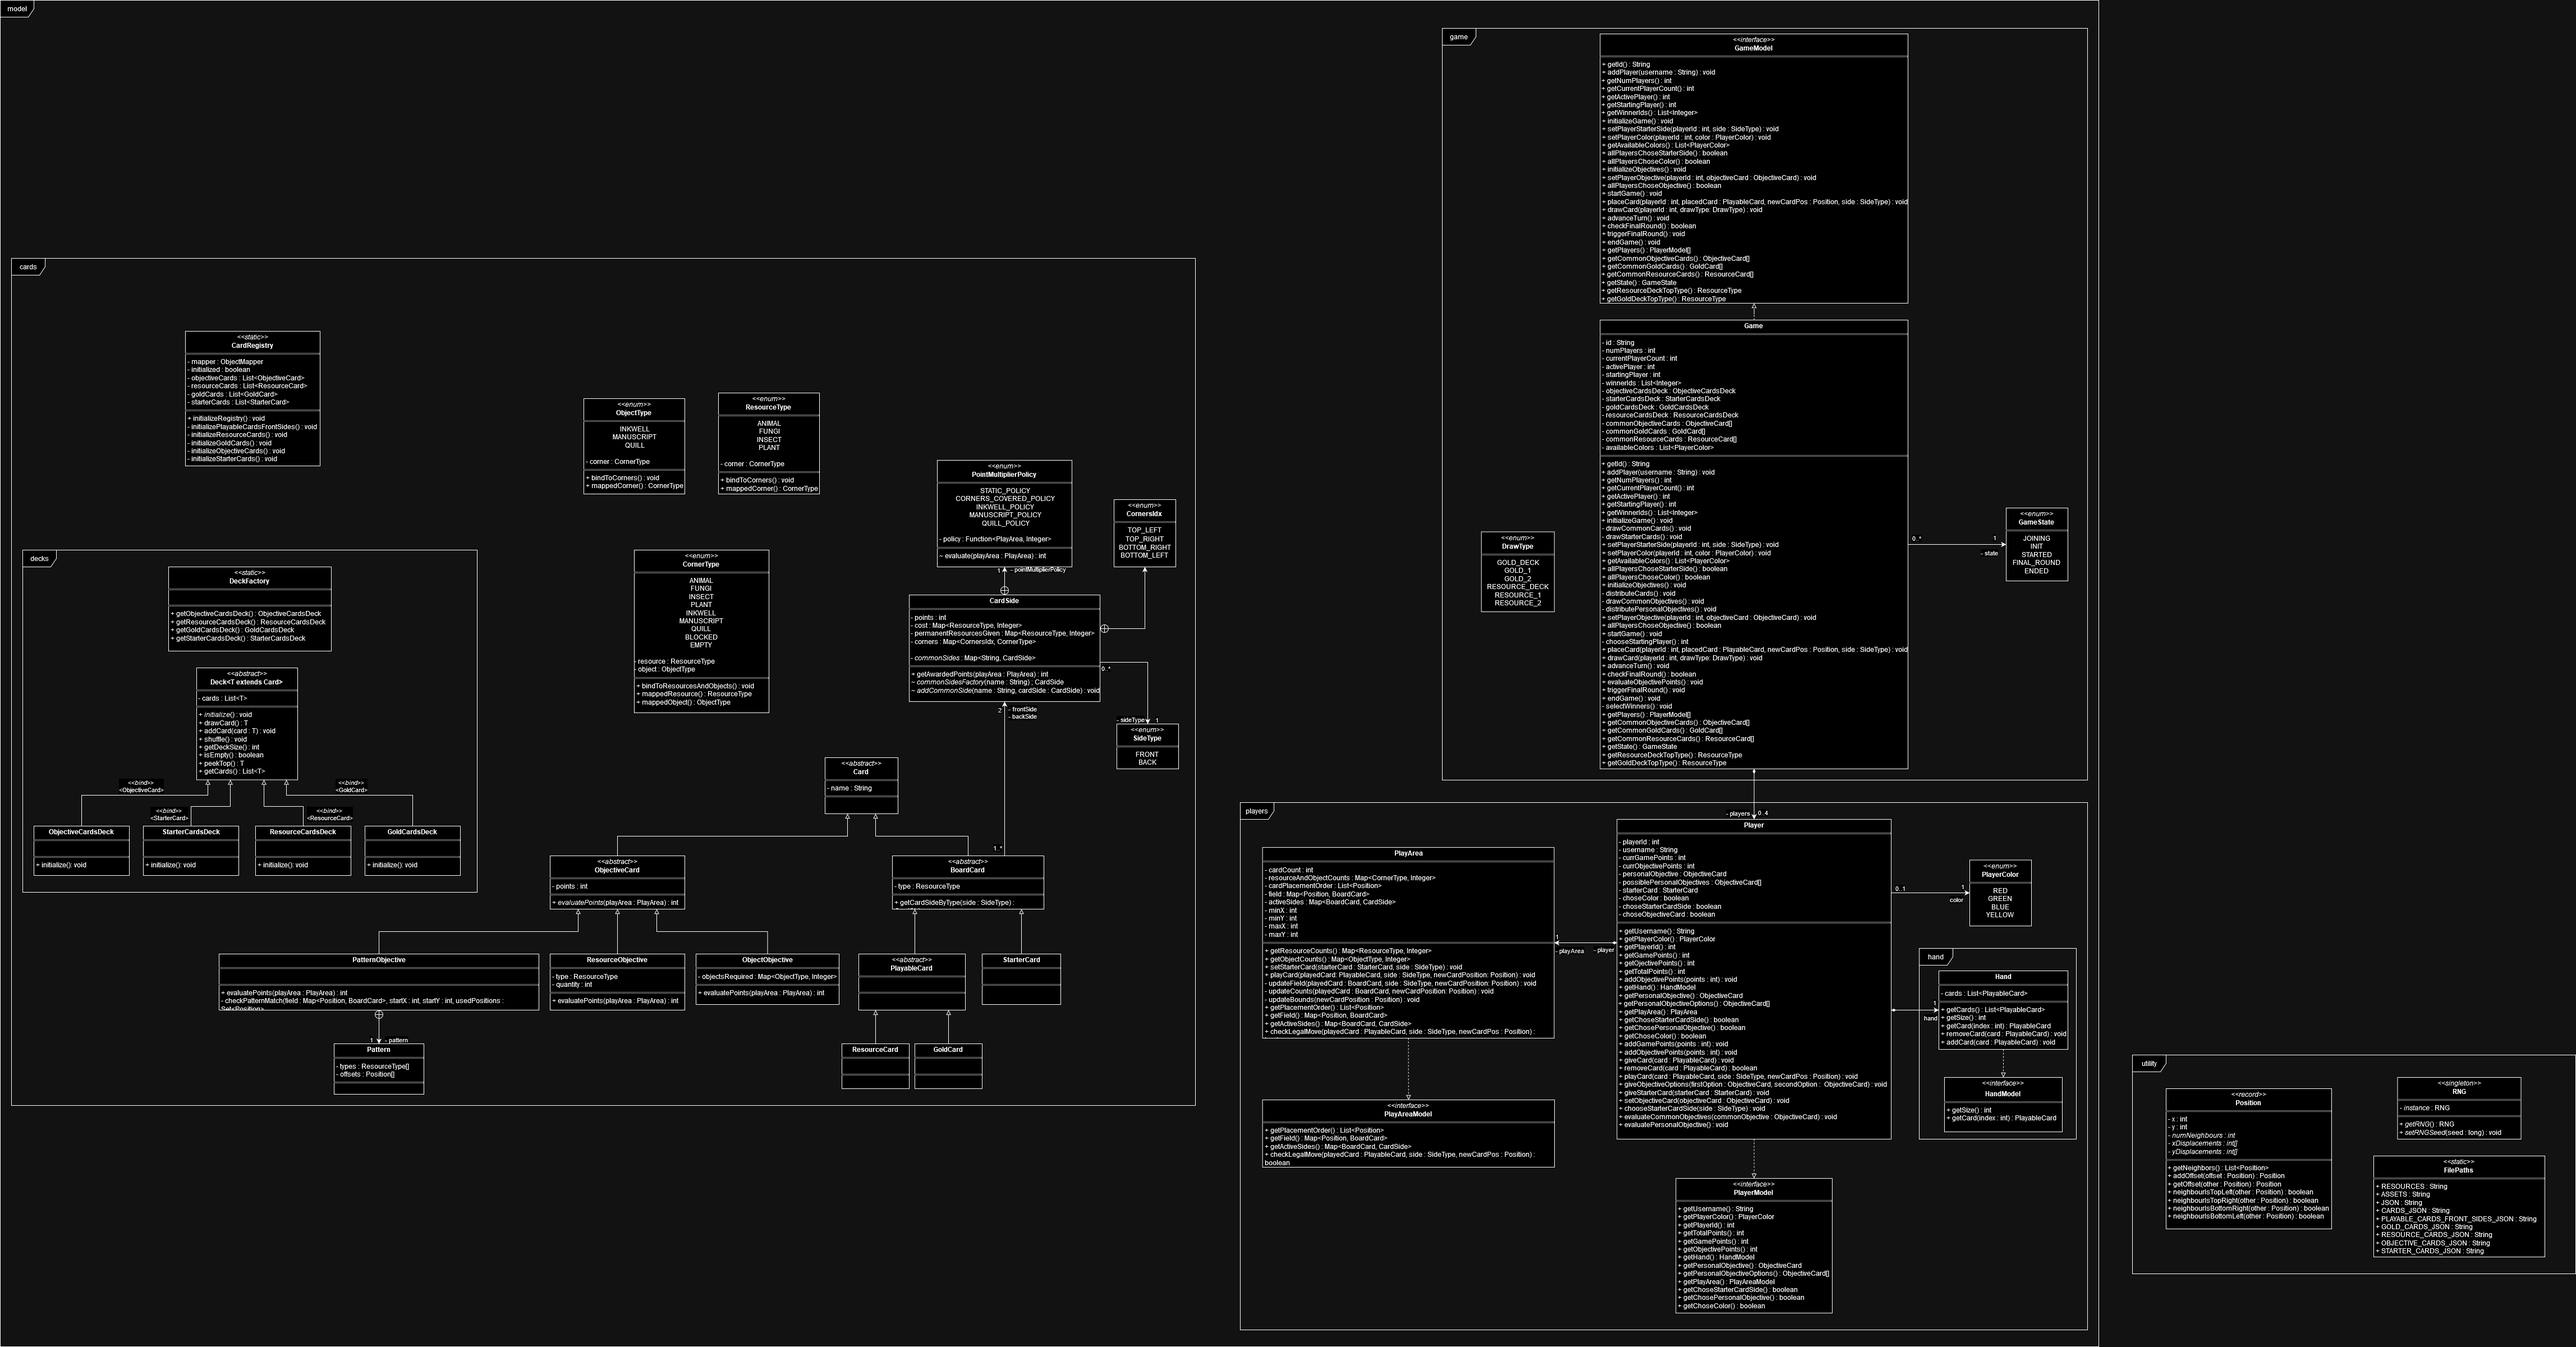
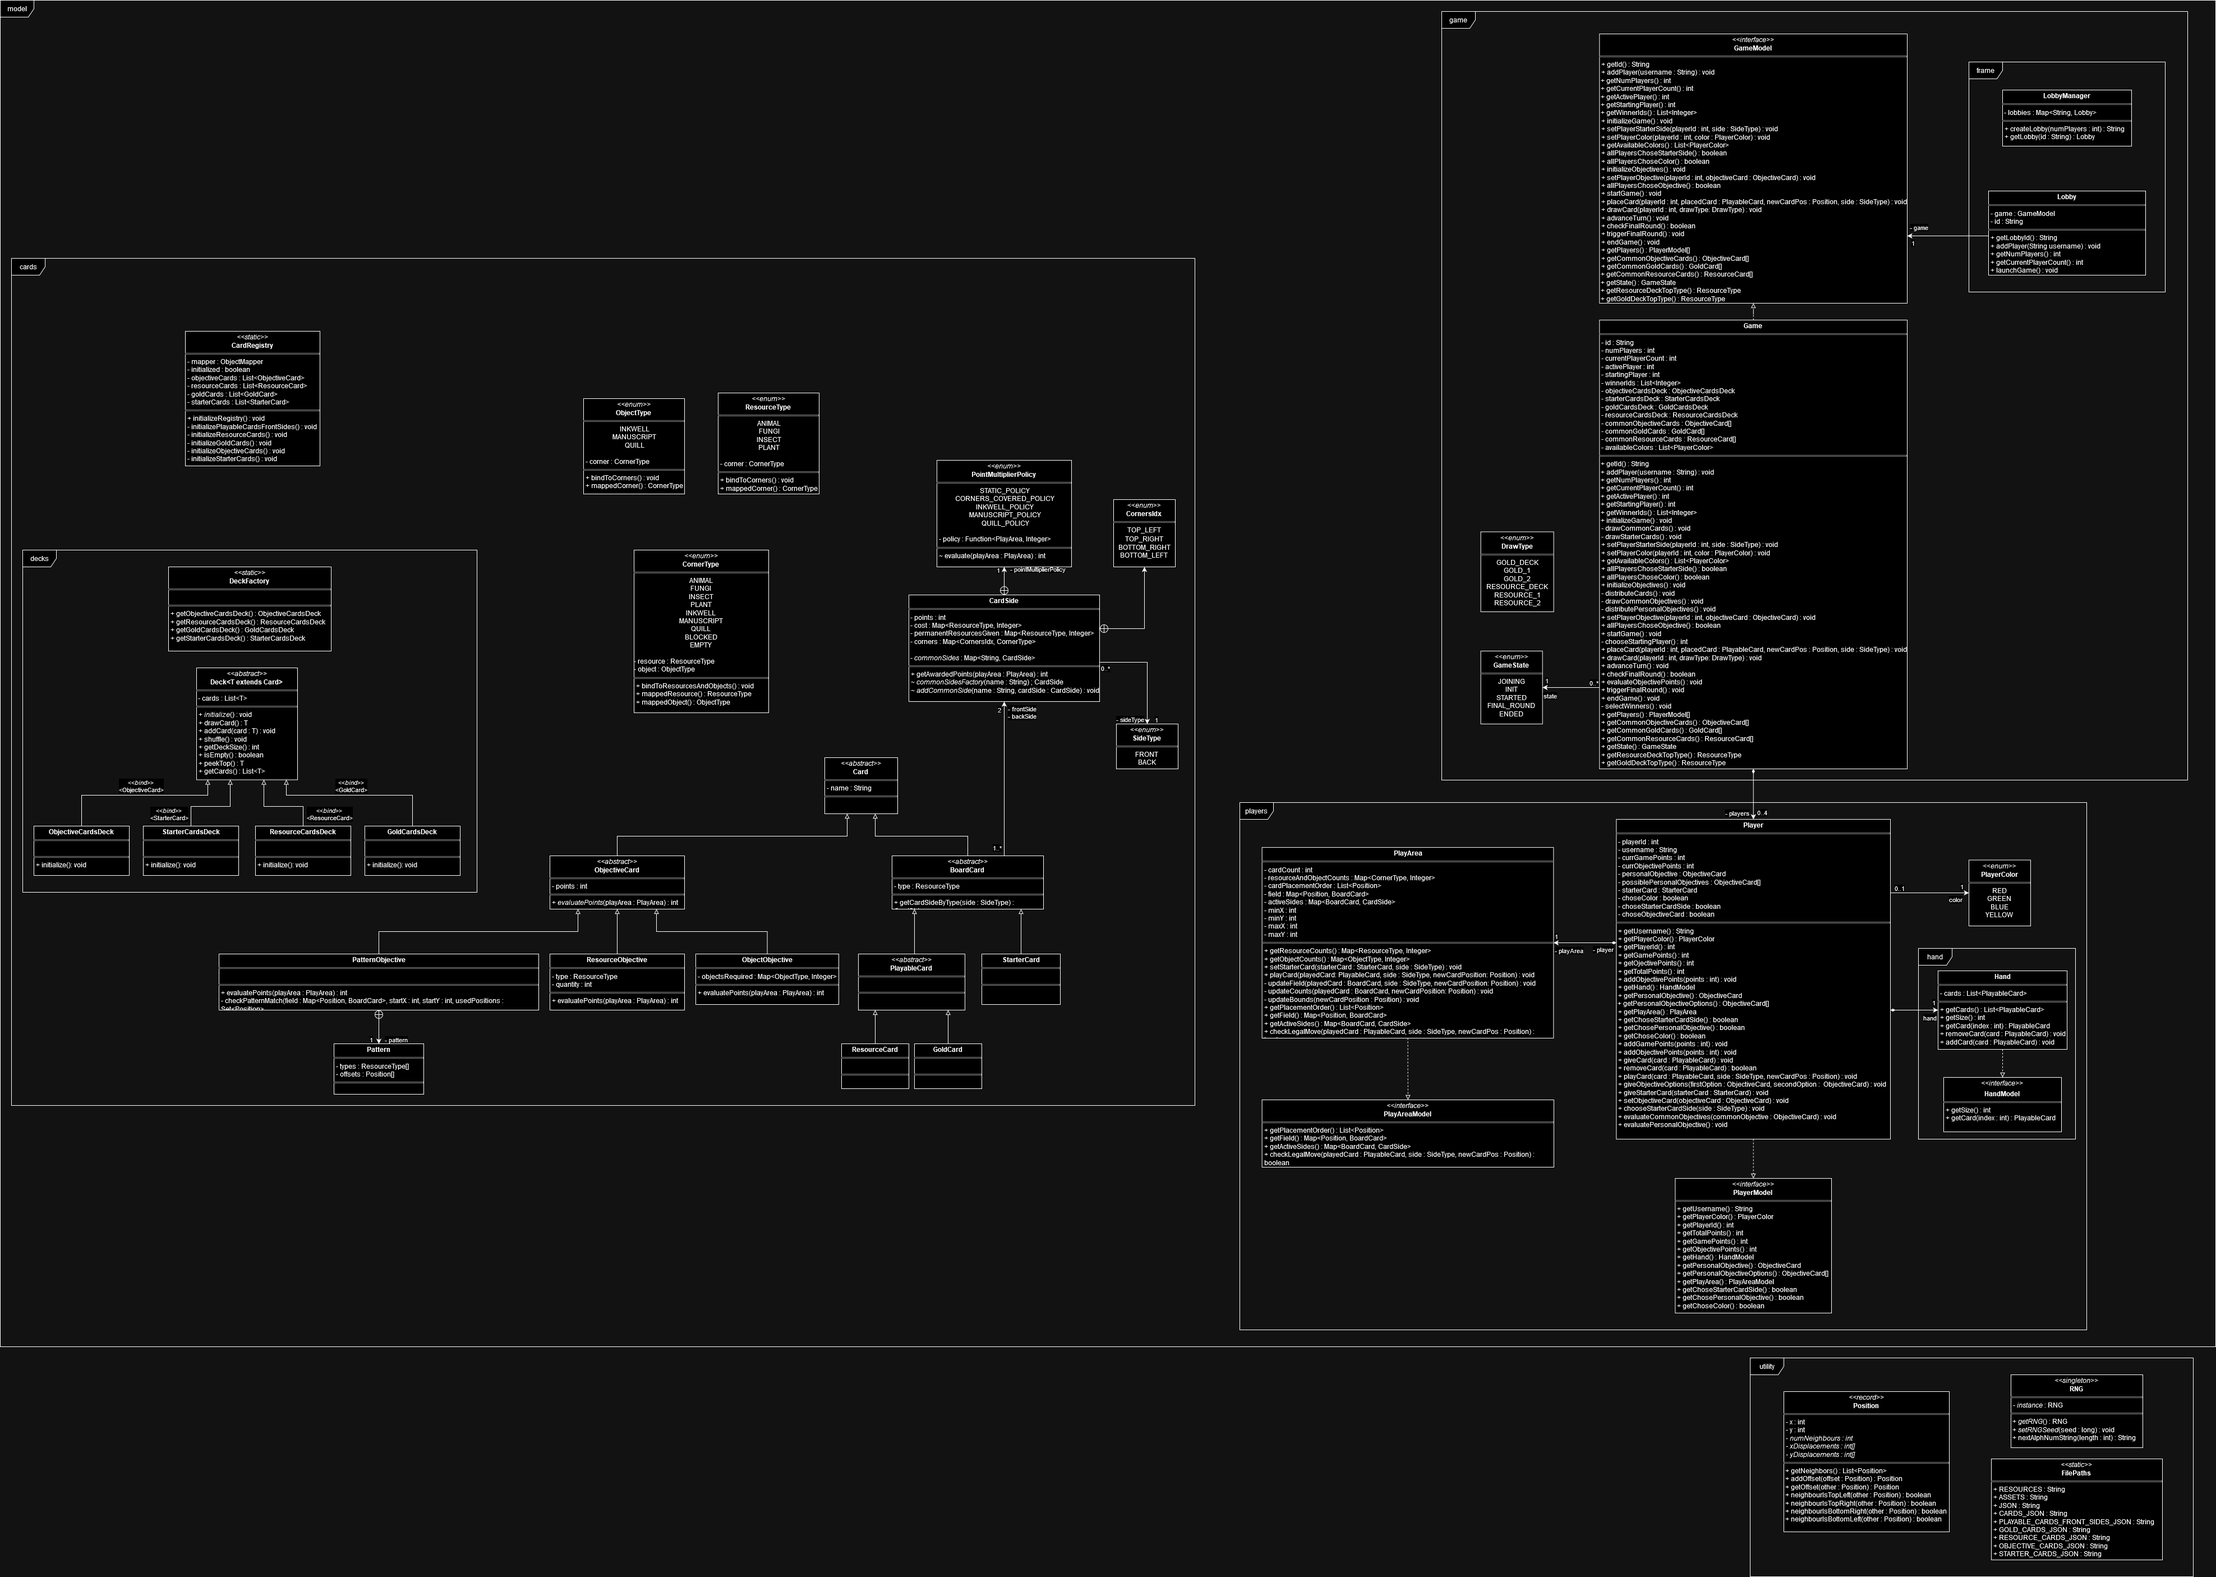
Added LobbyManager and Lobby. Added RNG.nextAlphNumString(...). Updated LAB2_Backup_UML_Class_Diagram.png. Added private constructor to FilePaths, and made it final.

diff --git a/src/main/java/it/polimi/ingsw/am16/common/util/RNG.java b/src/main/java/it/polimi/ingsw/am16/common/util/RNG.java
@@ -10,6 +10,7 @@ import java.util.Random;
 public class RNG extends Random {
 
     private static RNG instance = null;
+    private static final char[] symbols = "ABCDEFGHIJKLMNOPQRSTUVWXYZ1234567890".toCharArray();
 
     /**
      * Instantiates the RNG with the given seed.
@@ -43,5 +44,17 @@ public class RNG extends Random {
             instance = new RNG(System.nanoTime());
         }
         return instance;
+    }
+
+    public synchronized String nextAlphNumString(int length) {
+        if (instance == null) instance = new RNG(System.nanoTime());
+
+        if (length < 1) throw new IllegalArgumentException("Length must be at least 1");
+
+        StringBuilder builder = new StringBuilder();
+        for(int i = 0; i<length; i++)
+            builder.append(symbols[instance.nextInt(symbols.length)]);
+
+        return builder.toString();
     }
 }

diff --git a/src/main/java/it/polimi/ingsw/am16/common/model/lobby/Lobby.java b/src/main/java/it/polimi/ingsw/am16/common/model/lobby/Lobby.java
@@ -1,0 +1,32 @@
+package it.polimi.ingsw.am16.common.model.lobby;
+
+import it.polimi.ingsw.am16.common.exceptions.UnexpectedActionException;
+import it.polimi.ingsw.am16.common.model.game.Game;
+import it.polimi.ingsw.am16.common.model.game.GameModel;
+
+//DOCME
+public class Lobby {
+    private final GameModel game;
+    private final String id;
+
+    public Lobby(String id, int numPlayers) {
+        this.id = id;
+        game = new Game(id, numPlayers);
+    }
+
+    public String getLobbyId() {
+        return id;
+    }
+
+    public void addPlayer(String username) throws UnexpectedActionException {
+        game.addPlayer(username);
+    }
+
+    public int getNumPlayers() {
+        return game.getNumPlayers();
+    }
+
+    public int getCurrentPlayerCount() {
+        return game.getCurrentPlayerCount();
+    }
+}

diff --git a/src/main/java/it/polimi/ingsw/am16/common/model/lobby/LobbyManager.java b/src/main/java/it/polimi/ingsw/am16/common/model/lobby/LobbyManager.java
@@ -1,0 +1,31 @@
+package it.polimi.ingsw.am16.common.model.lobby;
+
+import it.polimi.ingsw.am16.common.util.RNG;
+
+import java.util.HashMap;
+import java.util.Map;
+
+//DOCME
+public class LobbyManager {
+
+    private static final int LOBBY_ID_LENGTH = 6;
+    private final Map<String, Lobby> lobbies;
+
+    public LobbyManager() {
+        lobbies = new HashMap<>();
+    }
+
+    public String createLobby(int numPlayers) {
+        String id;
+        do {
+            id = RNG.getRNG().nextAlphNumString(LOBBY_ID_LENGTH);
+        } while (lobbies.containsKey(id));
+        Lobby newLobby = new Lobby(id, numPlayers);
+        lobbies.put(id, newLobby);
+        return id;
+    }
+
+    public Lobby getLobby(String id) {
+        return lobbies.get(id);
+    }
+}

diff --git a/src/main/java/it/polimi/ingsw/am16/common/util/FilePaths.java b/src/main/java/it/polimi/ingsw/am16/common/util/FilePaths.java
@@ -3,7 +3,8 @@ package it.polimi.ingsw.am16.common.util;
 /**
  * Class that contains all the static paths for resources.
  */
-public class FilePaths {
+public final class FilePaths {
+    private FilePaths() {};
     /**
      * The main path for resources.
      */
